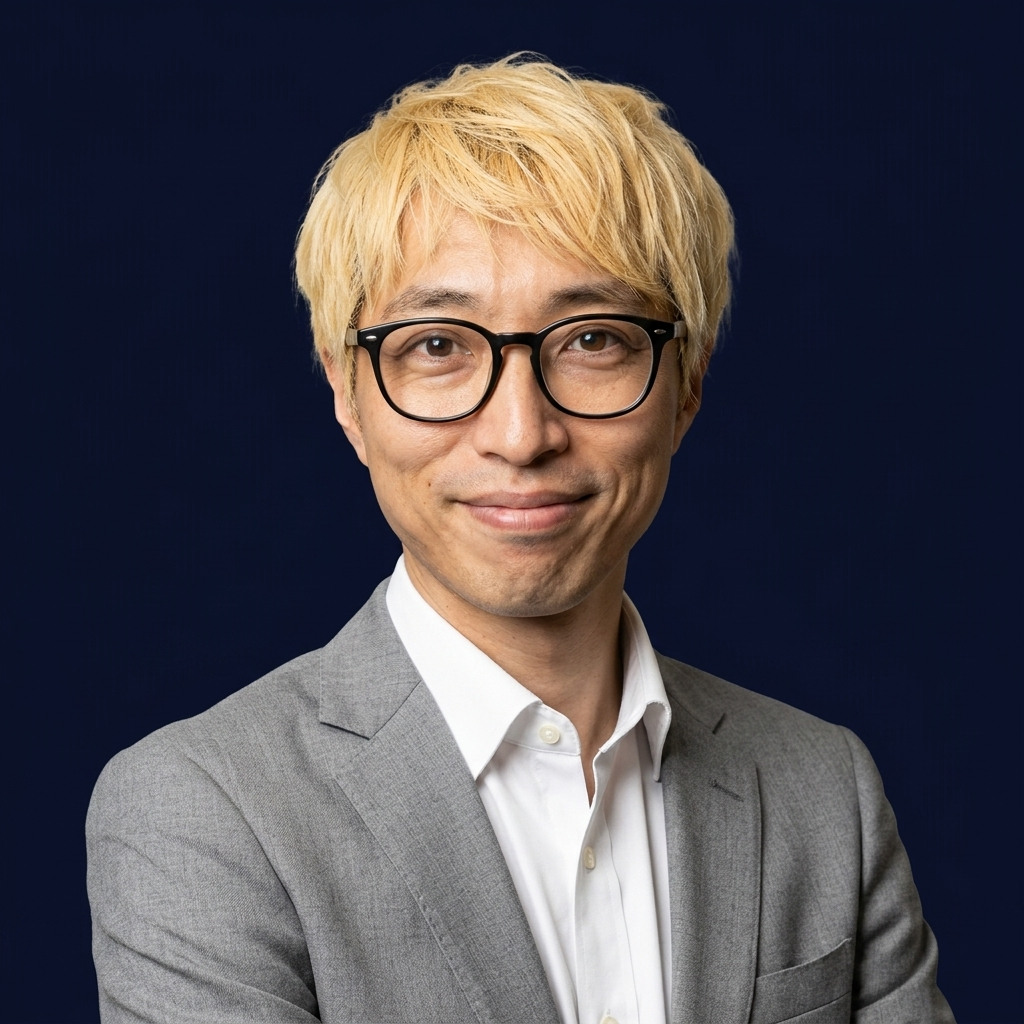
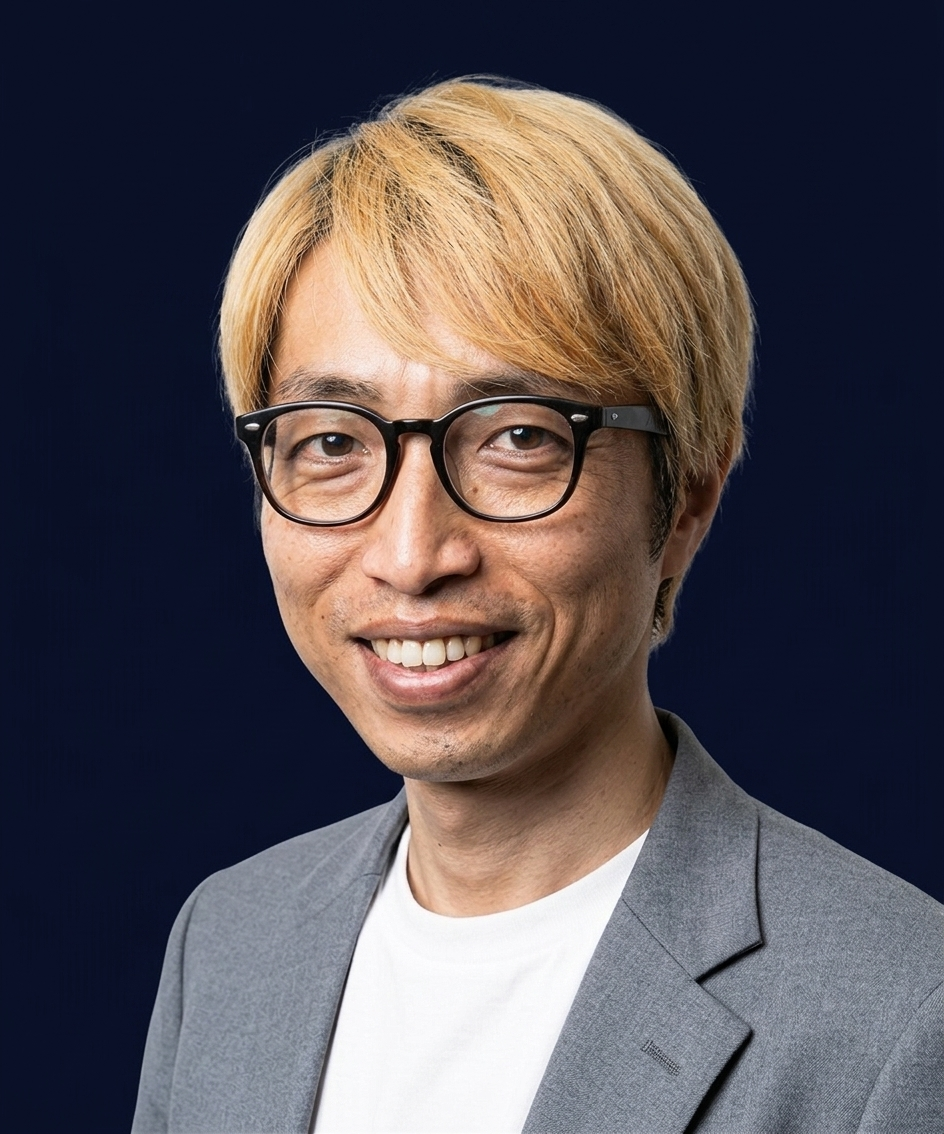
feat: add automated Ryo profile image generation script and update profile assets

diff --git a/tools/generate_ryo_profiles.py b/tools/generate_ryo_profiles.py
@@ -1,0 +1,105 @@
+# -*- coding: utf-8 -*-
+import os
+import sys
+import time
+from pathlib import Path
+from PIL import Image
+import io
+
+ROOT = Path("/Users/satoshioka/mirai-toushi-navi")
+sys.path.append(str(ROOT))
+
+# Load environment variables
+from dotenv import load_dotenv
+load_dotenv(ROOT / ".env")
+load_dotenv("/Users/satoshioka/youtube-project-share/.env")
+
+# Reference image path
+REF_IMAGE = Path("/Users/satoshioka/youtube-project-share/transcription-system/_apps/thumbnail/output/ryo_expressions/expr_04_serious.jpg")
+
+# Output paths
+TOP_IMAGE_OUT = ROOT / "images/ryo-profile.png"
+BOTTOM_IMAGE_OUT = ROOT / "images/ryo-profile2.png"
+
+# Identity base description
+IDENTITY_BASE = (
+    "Using the reference photo as the identity source: "
+    "Generate a photorealistic bust-up portrait of this exact same person "
+    "(Japanese man, blonde hair, black rectangular Wellington eyeglasses, "
+    "grey jacket over white T-shirt). "
+    "The background must be a completely solid, flat, uniform dark blue color of exactly hex #0a0f24. "
+    "Absolutely no textures, no gradients, no shadows, no vignette, and no lighting variations in the background. "
+    "It must be a 100% flat uniform #0a0f24 color to seamlessly blend with the web page. "
+    "Keep the same face identity, hair color, glasses style, and jacket. "
+)
+
+def generate_image(client, prompt_suffix, ref_path):
+    from google.genai import types
+    prompt_text = IDENTITY_BASE + prompt_suffix
+    ref_bytes = ref_path.read_bytes()
+    mime_type = "image/jpeg"
+
+    print(f"Calling gemini-3.1-flash-image-preview with prompt:\n  {prompt_text}\n")
+    try:
+        response = client.models.generate_content(
+            model="gemini-3.1-flash-image-preview",
+            contents=[
+                types.Part.from_bytes(data=ref_bytes, mime_type=mime_type),
+                types.Part.from_text(text=prompt_text),
+            ],
+            config=types.GenerateContentConfig(
+                response_modalities=["IMAGE"],
+            ),
+        )
+        for part in response.candidates[0].content.parts:
+            if part.inline_data and part.inline_data.data:
+                return part.inline_data.data
+        return None
+    except Exception as e:
+        print(f"API Error: {e}")
+        return None
+
+def main():
+    api_key = os.environ.get("GOOGLE_GENERATIVE_AI_API_KEY") or os.environ.get("GEMINI_API_KEY") or os.environ.get("GOOGLE_API_KEY")
+    if not api_key:
+        print("ERROR: API key not found. Please set GOOGLE_GENERATIVE_AI_API_KEY in .env")
+        sys.exit(1)
+
+    if not REF_IMAGE.exists():
+        print(f"ERROR: Reference image not found at {REF_IMAGE}")
+        sys.exit(1)
+
+    try:
+        from google import genai
+        client = genai.Client(api_key=api_key)
+    except ImportError:
+        print("ERROR: google-genai SDK not found. Install it with pip install google-genai")
+        sys.exit(1)
+
+    # 1. Top Image (Friendly smile, looking directly at the camera)
+    print("=== Generating TOP image (ryo-profile.png) ===")
+    top_prompt_suffix = "Expression: a warm, friendly and confident smile, looking directly at the camera with a welcoming look."
+    top_bytes = generate_image(client, top_prompt_suffix, REF_IMAGE)
+    if top_bytes:
+        img = Image.open(io.BytesIO(top_bytes))
+        img.save(TOP_IMAGE_OUT, "PNG")
+        print(f"SUCCESS: Saved top image to {TOP_IMAGE_OUT} ({len(top_bytes)//1024} KB)\n")
+    else:
+        print("FAILED to generate top image.\n")
+
+    # Rate limiting sleep
+    time.sleep(3)
+
+    # 2. Bottom Image (Friendly smile, diagonal three-quarter angle view)
+    print("=== Generating BOTTOM image (ryo-profile2.png) ===")
+    bottom_prompt_suffix = "Angle: taken from a diagonal angle (three-quarter view). Expression: a bright, friendly and engaging smile, looking slightly off-camera with a welcoming face."
+    bottom_bytes = generate_image(client, bottom_prompt_suffix, REF_IMAGE)
+    if bottom_bytes:
+        img = Image.open(io.BytesIO(bottom_bytes))
+        img.save(BOTTOM_IMAGE_OUT, "PNG")
+        print(f"SUCCESS: Saved bottom image to {BOTTOM_IMAGE_OUT} ({len(bottom_bytes)//1024} KB)\n")
+    else:
+        print("FAILED to generate bottom image.\n")
+
+if __name__ == "__main__":
+    main()